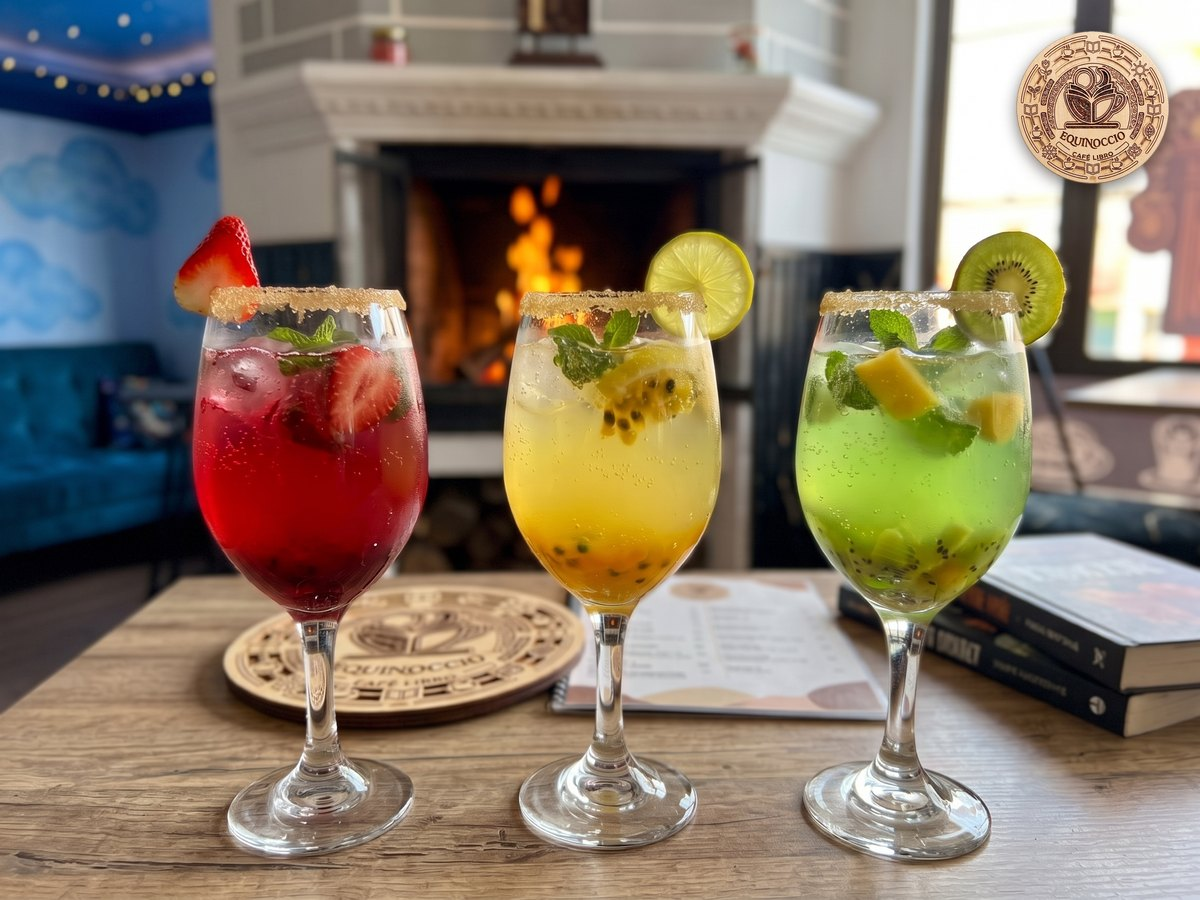
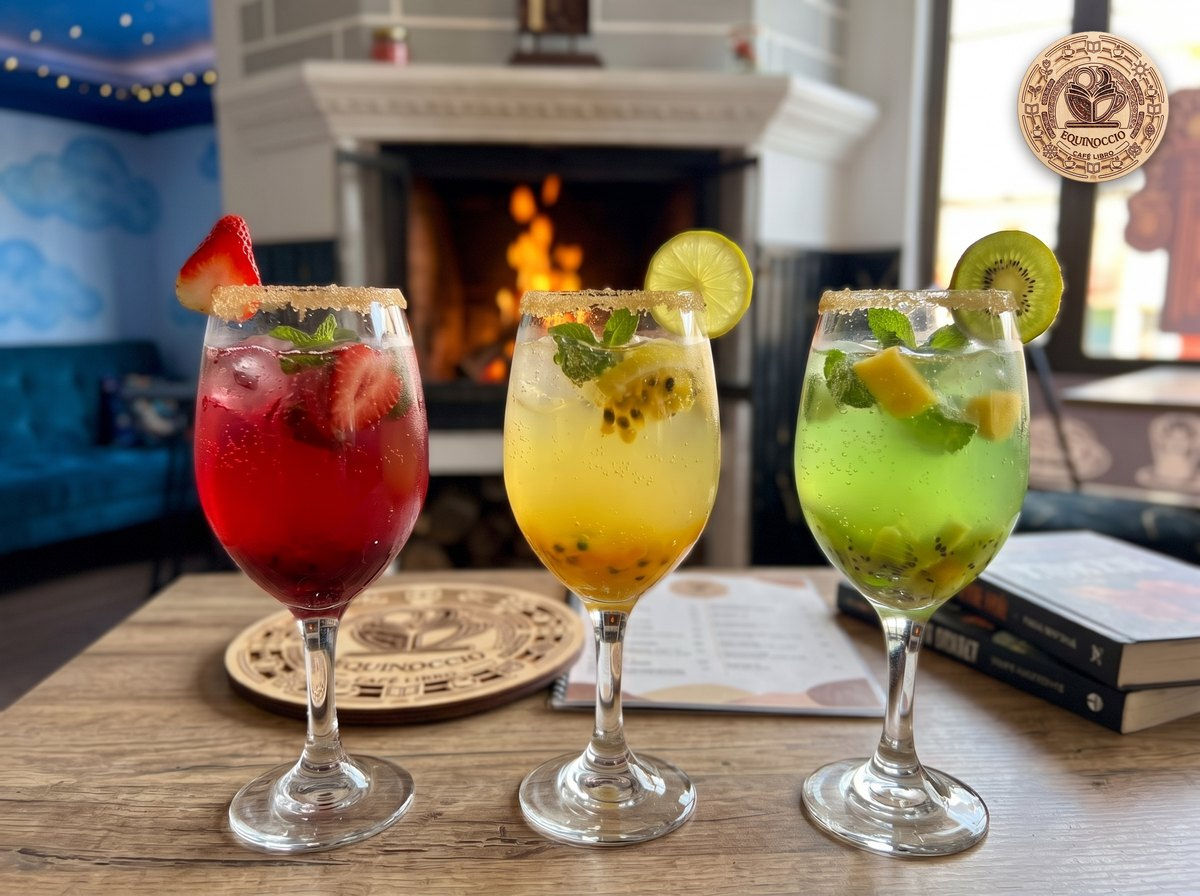
Carta: foto de Sodas Frutales completa, sin recorte
Claude-Session: https://claude.ai/code/session_01BZAH3jstTWfNAJgntfymtE

diff --git a/index.html b/index.html
@@ -271,7 +271,7 @@ footer .wrap{display:flex;flex-wrap:wrap;justify-content:space-between;gap:1rem}
 .flavors span{font-size:.8rem;padding:.2rem .6rem;border-radius:999px;border:1px solid var(--line)}
 .carta-foot{padding-block:2rem 3rem;display:grid;gap:1rem;justify-items:center;text-align:center;color:var(--fg-soft);font-size:var(--s-small)}
 @media (max-width:520px){.item .desc,.item .add{grid-column:1/-1}.cols span,.prices span{width:3.9rem}.prices{gap:.5rem;font-size:.95rem}.cols{gap:.5rem}.cols span{font-size:.58rem;letter-spacing:.05em;line-height:1.2}.item h3{font-size:1rem}.cat-head h2{font-size:1.6rem}.item.has-img{grid-template-columns:64px 1fr auto}.item.has-img .thumb{width:64px;height:64px}}
-.cat-img{display:block;width:100%;height:auto;aspect-ratio:4/3;max-height:360px;object-fit:cover;border-radius:16px;border:1px solid var(--line);margin:.9rem 0 .3rem}
+.cat-img{display:block;width:100%;max-width:640px;height:auto;object-fit:contain;border-radius:16px;border:1px solid var(--line);margin:.9rem auto .3rem}
 .item.has-img{grid-template-columns:128px 1fr auto;column-gap:1.1rem;align-items:center}
 .item.has-img .thumb{grid-row:1/span 3;grid-column:1;width:128px;height:128px;border-radius:18px;background:#fff;object-fit:cover;border:1px solid var(--line);cursor:zoom-in;box-shadow:0 4px 14px rgba(60,40,20,.12);transition:transform .2s}
 .item.has-img .thumb:hover{transform:scale(1.03)}
@@ -696,7 +696,7 @@ MENU.categories.forEach(cat => {
   }).join("");
   menuEl.insertAdjacentHTML("beforeend", `<section class="cat" id="${id}" style="padding-inline:0">
     <div class="cat-head"><div><h2>${esc(cat.name)}</h2>${cat.note?`<small>${esc(cat.note)}</small>`:""}</div>
-</div>${CAT_IMGS[cat.name]?`<img class="cat-img" src="${CAT_IMGS[cat.name][0]}" alt="${esc(CAT_IMGS[cat.name][1])}" loading="lazy" width="1200" height="900">`:""}${items}</section>`);
+</div>${CAT_IMGS[cat.name]?`<img class="cat-img" src="${CAT_IMGS[cat.name][0]}" alt="${esc(CAT_IMGS[cat.name][1])}" loading="lazy" width="1200" height="896">`:""}${items}</section>`);
 });
 document.getElementById("carta-count").textContent = `${total} preparaciones y horneados, de ${fmt(2500)} a ${fmt(15000)}. Y ${MENU.categories.filter(c=>c.combo).reduce((n,c)=>n+c.items.length,0)} combos literarios.`;
 tabsEl.addEventListener("click", e => {
